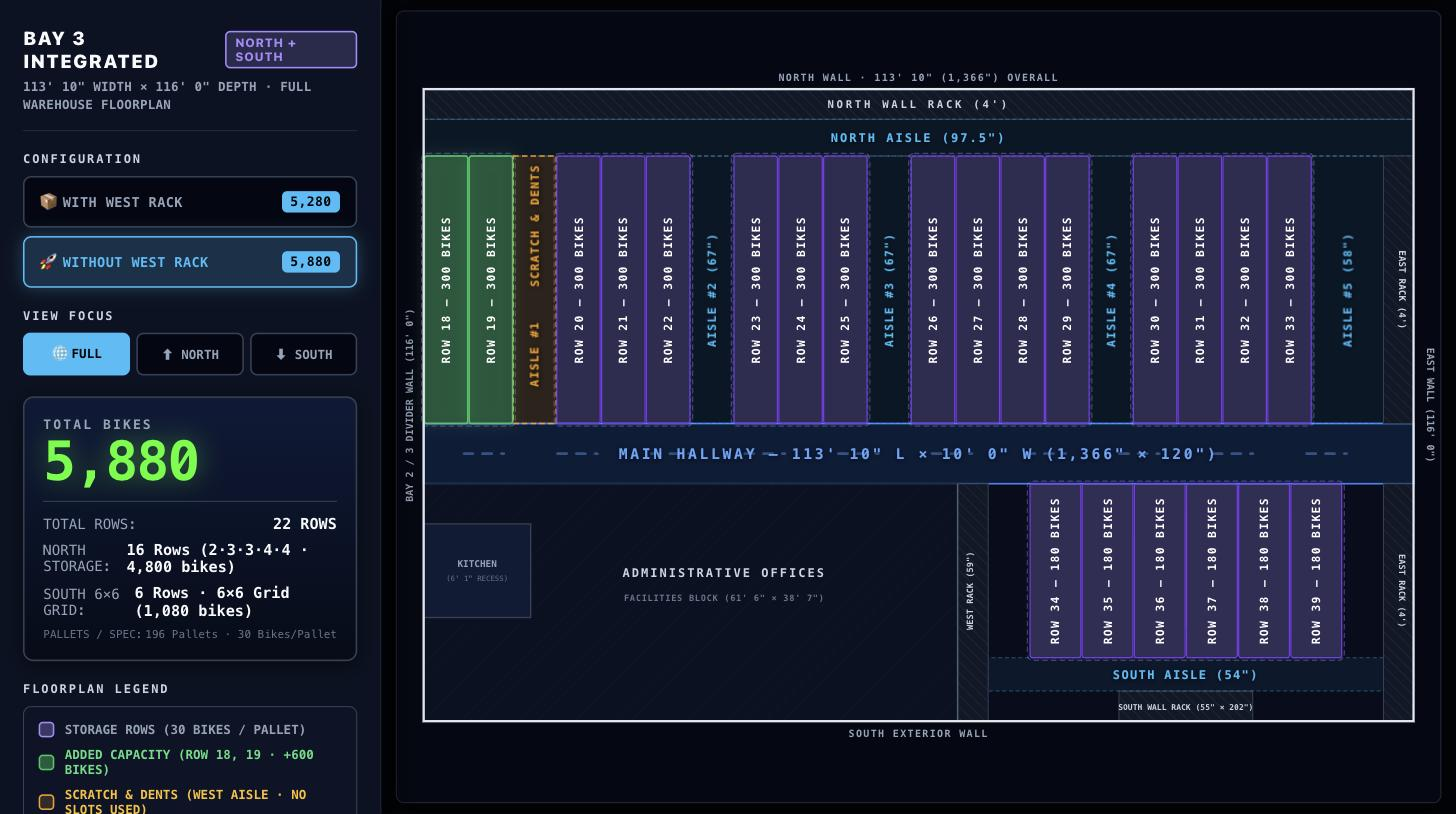
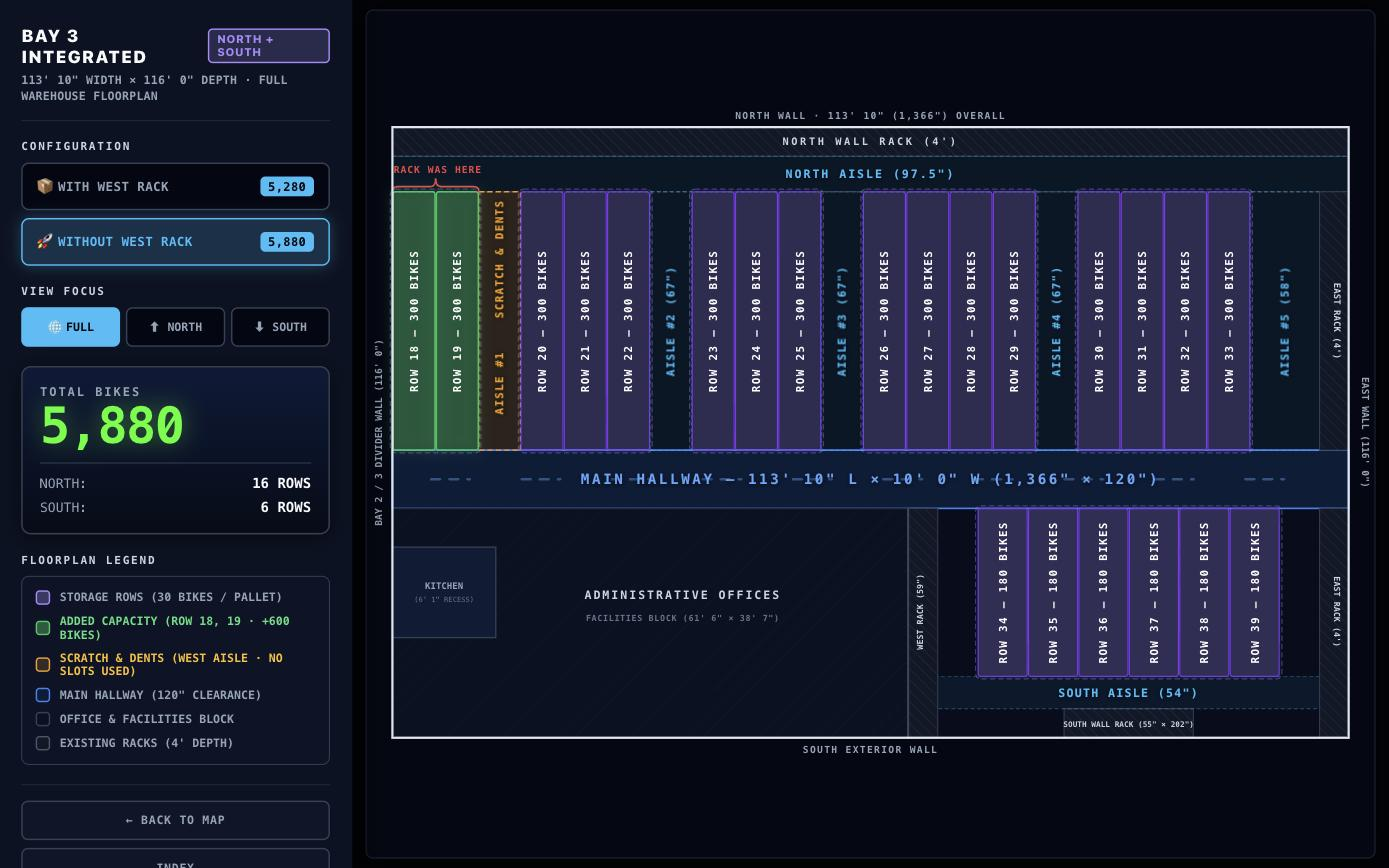
docs(warehouse): sharpen the Bay 3 proposal for its audience
Content, from Rafael's review:
- Names the grid unit as 60" x 62" and says what it holds, a tower or a
  strapped double-stacked pallet, since that equivalence is the whole
  argument for palletizing.
- Adds that the layout is trike friendly, ahead of the Florida inventory.
- Ties the last 2x10 block to the floor the rack gives back, so the gain
  is traceable to the move rather than asserted.
- "resited" out, "tucked" in. Not a word used on this floor.

Type scaled 1.25x. The page was being read at 150% browser zoom, which is
the reader telling you the default is too small.

The plan drawing behind it changed too: the stats panel is down to rows per
side, and a brace over rows 18-19 marks where the rack stood, so the two
green rows are visibly the rack's floor rather than rows that appeared.

diff --git a/public/bay3-plan/index.html b/public/bay3-plan/index.html
@@ -42,22 +42,22 @@
   *{ box-sizing:border-box; }
   body{
     margin:0; background:var(--paper); color:var(--ink);
-    font-family:var(--f-body); font-size:16px; line-height:1.65;
+    font-family:var(--f-body); font-size:20px; line-height:1.65;
     -webkit-font-smoothing:antialiased;
   }
   .sheet{ max-width:1080px; margin:0 auto; padding:0 32px 96px; }
 
   .masthead{ padding:64px 0 30px; border-bottom:2px solid var(--ink); }
   .org{
-    font-family:var(--f-mono); font-size:11px; font-weight:500;
+    font-family:var(--f-mono); font-size:13.75px; font-weight:500;
     letter-spacing:.2em; text-transform:uppercase; color:var(--steel);
   }
   h1{
     font-family:var(--f-display); font-weight:700;
-    font-size:clamp(34px,6vw,60px); line-height:1.02; letter-spacing:-.015em;
+    font-size:clamp(42.5px,6vw,75px); line-height:1.02; letter-spacing:-.015em;
     margin:14px 0 0; text-wrap:balance;
   }
-  .standfirst{ margin:16px 0 0; max-width:62ch; font-size:17px; color:var(--ink-2); }
+  .standfirst{ margin:16px 0 0; max-width:62ch; font-size:21.25px; color:var(--ink-2); }
 
   .progression{
     display:grid; grid-template-columns:1fr auto 1fr auto 1fr;
@@ -67,27 +67,27 @@
   }
   .step{ padding:24px 26px; display:flex; flex-direction:column; gap:6px; }
   .step .k{
-    font-family:var(--f-mono); font-size:10px; letter-spacing:.16em;
+    font-family:var(--f-mono); font-size:12.5px; letter-spacing:.16em;
     text-transform:uppercase; color:var(--ink-3);
   }
   .step .n{
-    font-family:var(--f-display); font-weight:700; font-size:44px; line-height:1;
+    font-family:var(--f-display); font-weight:700; font-size:55px; line-height:1;
     font-variant-numeric:tabular-nums; letter-spacing:-.02em;
   }
-  .step .u{ font-family:var(--f-mono); font-size:11px; color:var(--ink-3); letter-spacing:.08em; }
+  .step .u{ font-family:var(--f-mono); font-size:13.75px; color:var(--ink-3); letter-spacing:.08em; }
   .step.superseded{ background:var(--sunk); }
   .step.superseded .n{ color:var(--ink-3); }
   .step.target .n{ color:var(--gain); }
   .arrow{
     display:flex; align-items:center; color:var(--rule-firm);
-    font-family:var(--f-mono); font-size:18px;
+    font-family:var(--f-mono); font-size:22.5px;
     border-left:1px solid var(--rule); border-right:1px solid var(--rule);
     background:var(--sunk);
   }
   .arrow span{ padding:0 10px; }
   .delta{
     display:flex; flex-wrap:wrap; gap:26px; padding:14px 2px 0;
-    font-family:var(--f-mono); font-size:11.5px; letter-spacing:.06em;
+    font-family:var(--f-mono); font-size:14.38px; letter-spacing:.06em;
     color:var(--ink-3); text-transform:uppercase;
   }
   .delta b{ color:var(--gain); font-weight:600; }
@@ -97,25 +97,25 @@
     margin:72px 0 0; padding-bottom:10px; border-bottom:1px solid var(--rule-firm);
   }
   .part .num{
-    font-family:var(--f-mono); font-size:11px; font-weight:600;
+    font-family:var(--f-mono); font-size:13.75px; font-weight:600;
     letter-spacing:.16em; color:var(--steel);
   }
   .part h2{
-    font-family:var(--f-display); font-weight:600; font-size:15px;
+    font-family:var(--f-display); font-weight:600; font-size:18.75px;
     letter-spacing:.14em; text-transform:uppercase; margin:0; color:var(--ink-2);
   }
 
   section{ padding-top:44px; }
   .eyebrow{
-    font-family:var(--f-mono); font-size:10.5px; font-weight:500;
+    font-family:var(--f-mono); font-size:13.12px; font-weight:500;
     letter-spacing:.18em; text-transform:uppercase; color:var(--ink-3);
   }
   h3{
     font-family:var(--f-display); font-weight:700;
-    font-size:clamp(23px,3.2vw,31px); line-height:1.18; letter-spacing:-.008em;
+    font-size:clamp(28.75px,3.2vw,38.75px); line-height:1.18; letter-spacing:-.008em;
     margin:9px 0 0; text-wrap:balance;
   }
-  .lead{ margin:10px 0 0; max-width:64ch; color:var(--ink-2); font-size:16.5px; }
+  .lead{ margin:10px 0 0; max-width:64ch; color:var(--ink-2); font-size:20.62px; }
   section p.body{ margin:14px 0 0; max-width:64ch; }
 
   figure{ margin:26px 0 0; }
@@ -127,7 +127,7 @@
   .photo{ border:1px solid var(--rule-firm); border-radius:3px; overflow:hidden; line-height:0; }
   .photo img{ width:100%; height:auto; display:block; }
   figcaption{
-    font-family:var(--f-mono); font-size:11px; line-height:1.7;
+    font-family:var(--f-mono); font-size:13.75px; line-height:1.7;
     letter-spacing:.05em; color:var(--ink-3); margin-top:10px;
     display:flex; flex-wrap:wrap; gap:6px 18px;
   }
@@ -143,17 +143,17 @@
     display:flex; flex-direction:column; justify-content:center; gap:4px;
   }
   .nodrawing .big .n{
-    font-family:var(--f-display); font-weight:700; font-size:52px; line-height:1;
+    font-family:var(--f-display); font-weight:700; font-size:65px; line-height:1;
     font-variant-numeric:tabular-nums; letter-spacing:-.02em; color:var(--ink-2);
   }
   .nodrawing .big .u{
-    font-family:var(--f-mono); font-size:10.5px; letter-spacing:.15em;
+    font-family:var(--f-mono); font-size:13.12px; letter-spacing:.15em;
     text-transform:uppercase; color:var(--ink-3);
   }
   .nodrawing .body{ padding:26px 30px; display:flex; flex-direction:column; gap:12px; }
-  .nodrawing .body p{ margin:0; font-size:15.5px; color:var(--ink-2); }
+  .nodrawing .body p{ margin:0; font-size:19.38px; color:var(--ink-2); }
   .nodrawing .body .why{
-    font-family:var(--f-mono); font-size:11px; letter-spacing:.05em;
+    font-family:var(--f-mono); font-size:13.75px; letter-spacing:.05em;
     color:var(--ink-3); line-height:1.75; padding-top:12px; border-top:1px solid var(--rule);
   }
 
@@ -164,15 +164,15 @@
   }
   .figures div{ background:var(--surface); padding:16px 18px; }
   .figures .k{
-    font-family:var(--f-mono); font-size:9.5px; letter-spacing:.15em;
+    font-family:var(--f-mono); font-size:11.88px; letter-spacing:.15em;
     text-transform:uppercase; color:var(--ink-3);
   }
   .figures .v{
-    font-family:var(--f-display); font-weight:700; font-size:26px; line-height:1.15;
+    font-family:var(--f-display); font-weight:700; font-size:32.5px; line-height:1.15;
     margin-top:3px; font-variant-numeric:tabular-nums;
   }
   .figures .v small{
-    font-family:var(--f-mono); font-size:10.5px; font-weight:400;
+    font-family:var(--f-mono); font-size:13.12px; font-weight:400;
     color:var(--ink-3); letter-spacing:.05em;
   }
 
@@ -182,21 +182,21 @@
     border-left:3px solid var(--amber);
   }
   .callout .k{
-    font-family:var(--f-mono); font-size:10.5px; font-weight:600;
+    font-family:var(--f-mono); font-size:13.12px; font-weight:600;
     letter-spacing:.16em; text-transform:uppercase; color:var(--amber);
   }
-  .callout p{ margin:8px 0 0; max-width:62ch; color:var(--ink-2); font-size:15.5px; }
+  .callout p{ margin:8px 0 0; max-width:62ch; color:var(--ink-2); font-size:19.38px; }
 
   .steps{ margin-top:26px; display:flex; flex-direction:column; gap:1px; background:var(--rule);
           border:1px solid var(--rule); border-radius:3px; overflow:hidden; }
   .steps li{ list-style:none; background:var(--surface); padding:18px 24px;
              display:flex; gap:20px; align-items:baseline; }
   .steps .ord{
-    font-family:var(--f-mono); font-size:11px; font-weight:600; letter-spacing:.14em;
+    font-family:var(--f-mono); font-size:13.75px; font-weight:600; letter-spacing:.14em;
     color:var(--steel); white-space:nowrap; min-width:5.5em;
   }
-  .steps .what{ font-family:var(--f-display); font-weight:700; font-size:19px; }
-  .steps .note{ color:var(--ink-3); font-size:14.5px; margin-left:auto; text-align:right; }
+  .steps .what{ font-family:var(--f-display); font-weight:700; font-size:23.75px; }
+  .steps .note{ color:var(--ink-3); font-size:18.12px; margin-left:auto; text-align:right; }
   .steps li.done{ background:var(--sunk); }
   .steps li.done .ord{ color:var(--gain); }
 
@@ -210,10 +210,10 @@
   /* Both columns use the same 26px line box, so the label lines up with the first line
      of text by construction. No baseline negotiation between 10px and 16px type. */
   .status .tag{
-    flex:0 0 7.5em; font-family:var(--f-mono); font-size:10px; font-weight:600;
-    letter-spacing:.14em; text-transform:uppercase; white-space:nowrap; line-height:26px;
+    flex:0 0 7.5em; font-family:var(--f-mono); font-size:12.5px; font-weight:600;
+    letter-spacing:.14em; text-transform:uppercase; white-space:nowrap; line-height:32px;
   }
-  .status .what{ flex:1 1 auto; min-width:0; color:var(--ink-2); line-height:26px; }
+  .status .what{ flex:1 1 auto; min-width:0; color:var(--ink-2); line-height:32px; }
   .status .what b{ color:var(--ink); font-weight:600; }
   .status .done .tag{ color:var(--gain); }
   .status .now  .tag{ color:var(--amber); }
@@ -224,22 +224,22 @@
     background:var(--ink); color:var(--paper);
   }
   .objective .k{
-    font-family:var(--f-mono); font-size:10.5px; letter-spacing:.2em;
+    font-family:var(--f-mono); font-size:13.12px; letter-spacing:.2em;
     text-transform:uppercase; opacity:.62;
   }
   .objective p{
     font-family:var(--f-display); font-weight:600;
-    font-size:clamp(22px,3.4vw,32px); line-height:1.25; letter-spacing:-.01em;
+    font-size:clamp(27.5px,3.4vw,40px); line-height:1.25; letter-spacing:-.01em;
     margin:14px 0 0; max-width:26ch; text-wrap:balance;
   }
   .objective .sub{
-    font-family:var(--f-body); font-weight:400; font-size:16px; line-height:1.65;
+    font-family:var(--f-body); font-weight:400; font-size:20px; line-height:1.65;
     letter-spacing:0; margin-top:16px; max-width:56ch; opacity:.78;
   }
 
   .notes{
     margin-top:52px; padding-top:22px; border-top:1px solid var(--rule);
-    font-family:var(--f-mono); font-size:11px; line-height:1.95;
+    font-family:var(--f-mono); font-size:13.75px; line-height:1.95;
     letter-spacing:.04em; color:var(--ink-3);
   }
   .notes b{ color:var(--ink-2); font-weight:500; }
@@ -314,24 +314,28 @@
     </p>
     <p class="body">
       Bay&nbsp;3 was laid out to hold 4,400 bikes. Reworking the grid around a single repeating
-      unit, running fewer aisles, and moving one rack out of the bay takes it to 5,880 &mdash;
-      on the same floor, with aisles wide enough that our equipment clears the bikes.
+      unit &mdash; 60&Prime;&nbsp;&times;&nbsp;62&Prime;, which takes a tower or a strapped,
+      double-stacked pallet equally well &mdash; running fewer aisles, and moving one rack out of
+      the bay takes it to 5,880: same floor, aisles wide enough that our equipment clears the bikes.
     </p>
 
     <ul class="status">
       <li class="done">
         <span class="tag">Done</span>
-        <span class="what"><b>Platforms replaced ladders</b> for building at height.</span>
+        <span class="what"><b>Platforms replaced ladders</b> for building at height &mdash; safer
+          to work from, and less handling damage to the bikes.</span>
       </li>
       <li class="now">
         <span class="tag">Underway</span>
         <span class="what"><b>Palletizing the high-quantity SKUs.</b> First 4&times;10 block
-          filling now, strapped and double stacked.</span>
+          filling now, strapped and double stacked, going in where an aisle used to run &mdash;
+          that floor turns straight into bike capacity.</span>
       </li>
       <li class="plan">
         <span class="tag">Proposed</span>
         <span class="what"><b>Rework the grid and relocate the west rack.</b> Two 4&times;10
-          blocks, two 3&times;10, and the 2&times;10 it stands on today.</span>
+          blocks, two 3&times;10, and a final 2&times;10 &mdash; that last block is the floor the
+          rack gives back.</span>
       </li>
     </ul>
   </section>
@@ -371,6 +375,14 @@
       <div><div class="k">Main hallway</div><div class="v">120<small>&Prime; clear</small></div></div>
     </div>
 
+    <div class="callout" style="border-left-color:var(--gain);">
+      <div class="k" style="color:var(--gain);">Trike friendly</div>
+      <p>
+        The layout takes trikes as readily as it takes bikes &mdash; put in ahead of the Florida
+        inventory coming our way, so nothing has to be rearranged again when it lands.
+      </p>
+    </div>
+
     <div class="callout">
       <div class="k">West aisle &mdash; scratch &amp; dents</div>
       <p>
@@ -408,7 +420,7 @@
     <h3>The Rack</h3>
     <p class="lead">Moving it out of Bay 3 is what frees the floor for rows 18 and 19.</p>
     <p class="body">
-      It does not move in one piece. Part of it stays in Bay&nbsp;3, resited past the main
+      It does not move in one piece. Part of it stays in Bay&nbsp;3, tucked past the main
       hallway where it is clear of the storage grid, and part goes across to the south wall of
       Bay&nbsp;2. Either way the west strip comes free, which is all rows 18 and 19 need.
     </p>
